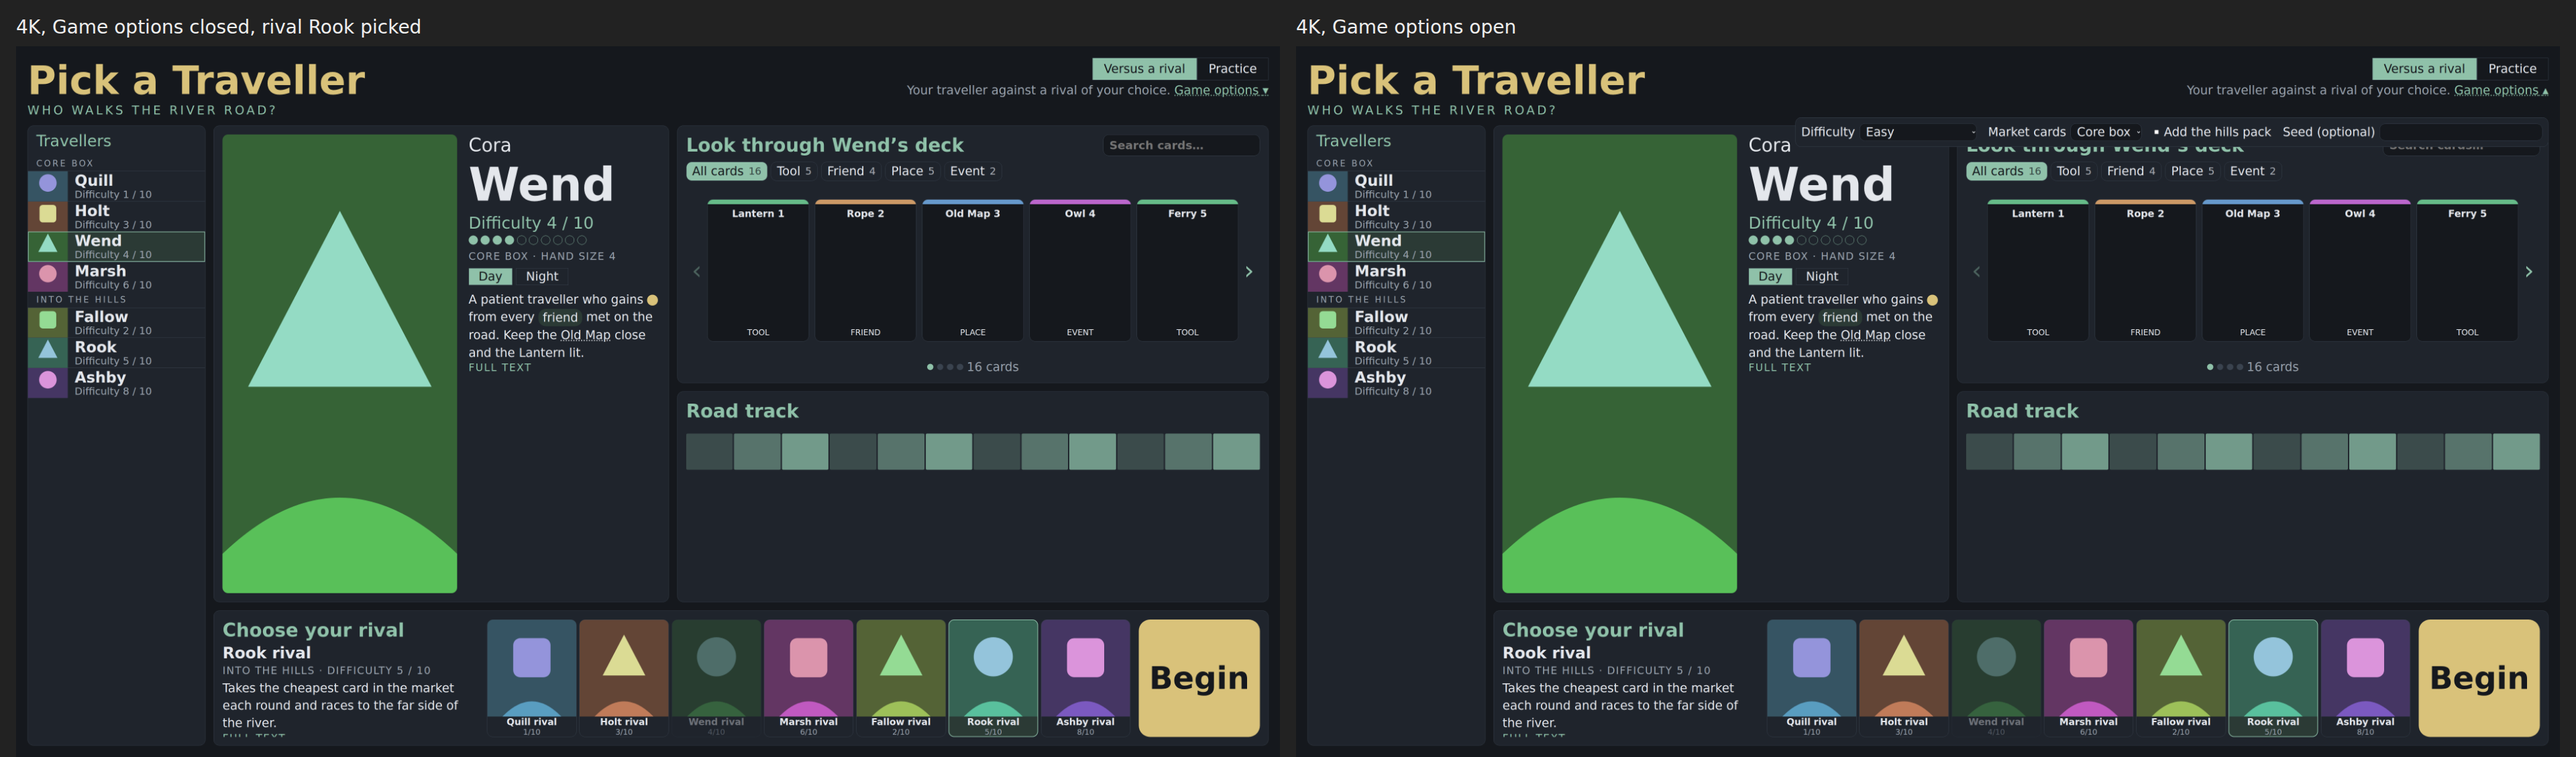
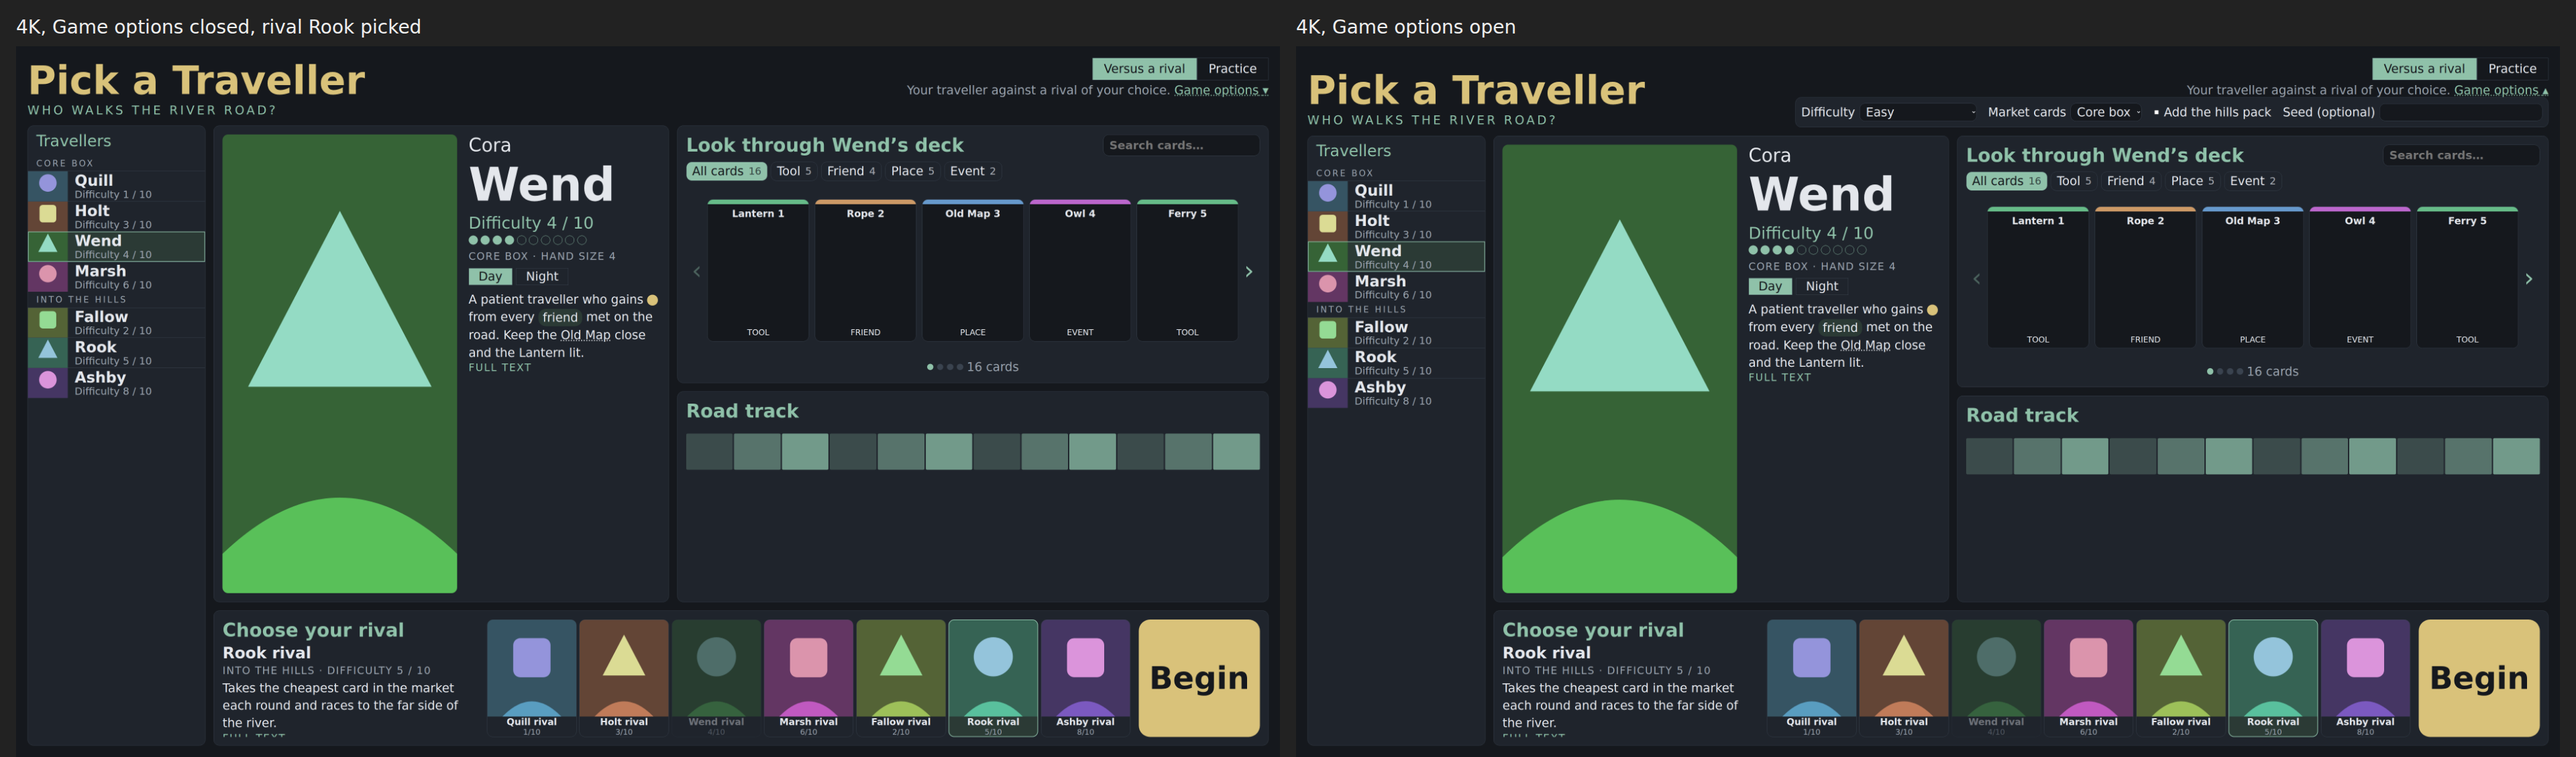
K467 fix: Game options fold sits in the flow under the mode tabs; sheets re-shot

diff --git a/components/character-select/looks/layout.css b/components/character-select/looks/layout.css
@@ -547,15 +547,6 @@
   font-size: 8vw;
   padding: 2.5vw;
 }
-[data-part='character-select'] > [data-part='header'] {
-  position: relative;
-}
-[data-part='character-select'] [data-part='options'] {
-  position: absolute;
-  top: 100%;
-  right: 0;
-  z-index: 3;
-}
 [data-part='character-select'] [data-part='field'] select,
 [data-part='character-select'] [data-part='field'] input:not([type='checkbox']) {
   font: inherit;
@@ -566,7 +557,6 @@
   padding: 0.1em 0.4em;
 }
 [data-layout='phone'] [data-part='options'] {
-  left: 0;
   flex-direction: column;
   align-items: flex-start;
 }
